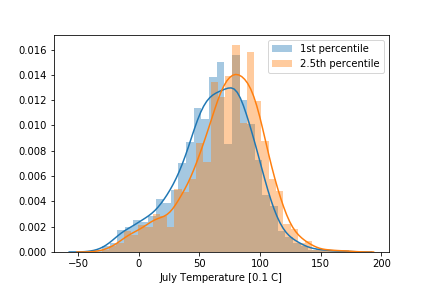
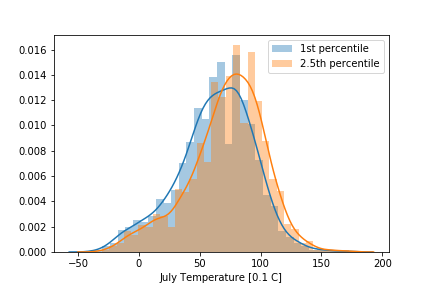
Further plotting of percentiles. Percentiles for July appear to be working well.

Changed region(s): [[0.3611, 0.1875, 0.7824, 0.9375], [0.8727, 0.875, 0.9028, 0.9375], [0.331, 0.7188, 0.3611, 0.7812]]

diff --git a/WorkflowMSC.py b/WorkflowMSC.py
@@ -11,6 +11,8 @@ import numpy as np
 import pandas as pd
 
 class WorkflowMSC:
+    def __init__():
+        print("Initiated!")
 
     def baseline(start_time, end_time):
         """
@@ -44,7 +46,53 @@ class WorkflowMSC:
         """
         if start_year.year - end_year.year < 1:
             raise ValueError("Annual precipitation value requires a time window of at least 1 year.")
-        
-        query = session.query(func.sum(Obs.datum).label("sum"), func.max(Obs.time).label("time"), History.lat, History.lon, History.station_id).group_by(History).filter(Variable.standard_name == "lwe_thickness_of_precipitation_amount").filter(or_(Variable.description == "Total precipiation", Variable.id == 1397))
+
+        yr_interval = float(np.abs(end_year.year - start_year.year))
+        print(yr_interval)
+        query = session.query(func.sum(Obs.datum*0.1/yr_interval).label("sum"), func.max(Obs.time).label("max_date"), History.lat, History.lon, History.station_id).group_by(History).having(func.max(Obs.time) >= end_year).filter(Variable.standard_name == "lwe_thickness_of_precipitation_amount").filter(or_(Variable.description == "Total precipiation", Variable.id == 1397))
         query = query.filter(Obs.time <= end_year).filter(Obs.time >= start_year).join(History).join(Variable)
+        return query
+    
+    def baseline(start_time, end_time):
+        query = session.query(Obs.datum, Obs.time, Variable.standard_name, History.station_id).filter(Obs.time <= end_time).filter(Obs.time >= start_time).join(History).join(Variable)
+        return query
+
+    def precip_query(start_time, end_time):
+        query = baseline(start_time, end_time).filter(Variable.standard_name == "lwe_thickness_of_precipitation_amount").filter(or_(Variable.description == "Total precipiation", Variable.id == 1397))
+        return query
+
+    def design_temp_25(start_time, end_time, month = 1):
+
+        query = session.query(func.percentile_cont(0.025).within_group(
+                        Obs.datum.asc()).label("temp"), 
+                        func.min(Obs.time).label("time"),
+                        History.lat,
+                        History.lon,
+                        History.station_id).group_by(History)\
+                        .filter(or_(Variable.description == "Air temperature", Variable.id == 1510)) \
+        .filter(Variable.standard_name == "air_temperature") \
+        .filter(and_(func.extract("month", Obs.time) == month, func.extract("year", Obs.time) <= end_time.year)) \
+        .filter(func.extract("year", Obs.time) >= start_time.year)
+
+        return query
+
+    def design_temp_1(start_time, end_time, month = 1):
+
+        query = session.query(func.percentile_cont(0.01).within_group(
+                        Obs.datum.asc()).label("temp"), 
+                        func.min(Obs.time).label("time"),
+                        History.lat,
+                        History.lon,
+                        History.station_id).group_by(History) \
+        .filter(or_(Variable.description == "Air temperature", Variable.id == 1510)) \
+        .filter(Variable.standard_name == "air_temperature") \
+        .filter(and_(func.extract("month", Obs.time) == month, func.extract("year", Obs.time) <= end_time.year)) \
+        .filter(func.extract("year", Obs.time) >= start_time.year)
+
+        return query
+
+    def show_design_values():
+
+        query = session.query(Variable.standard_name, Variable.description, Variable.unit, Variable.id)
+
         return query
